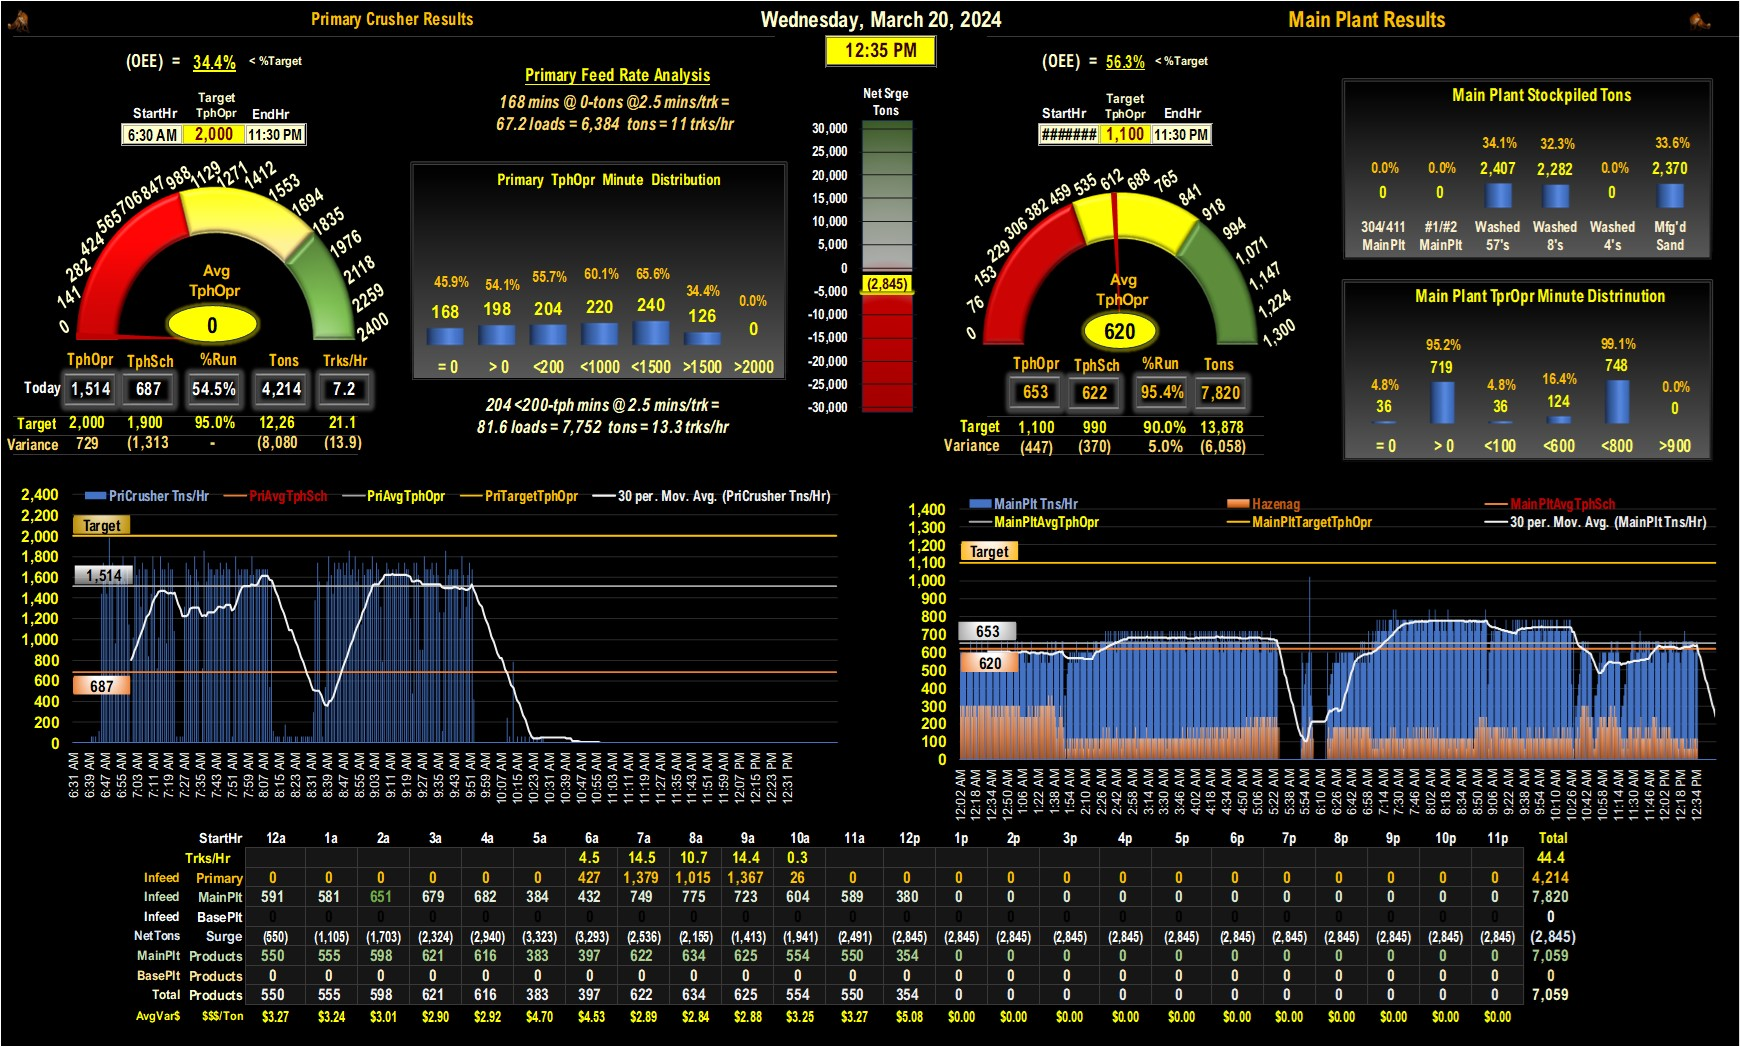
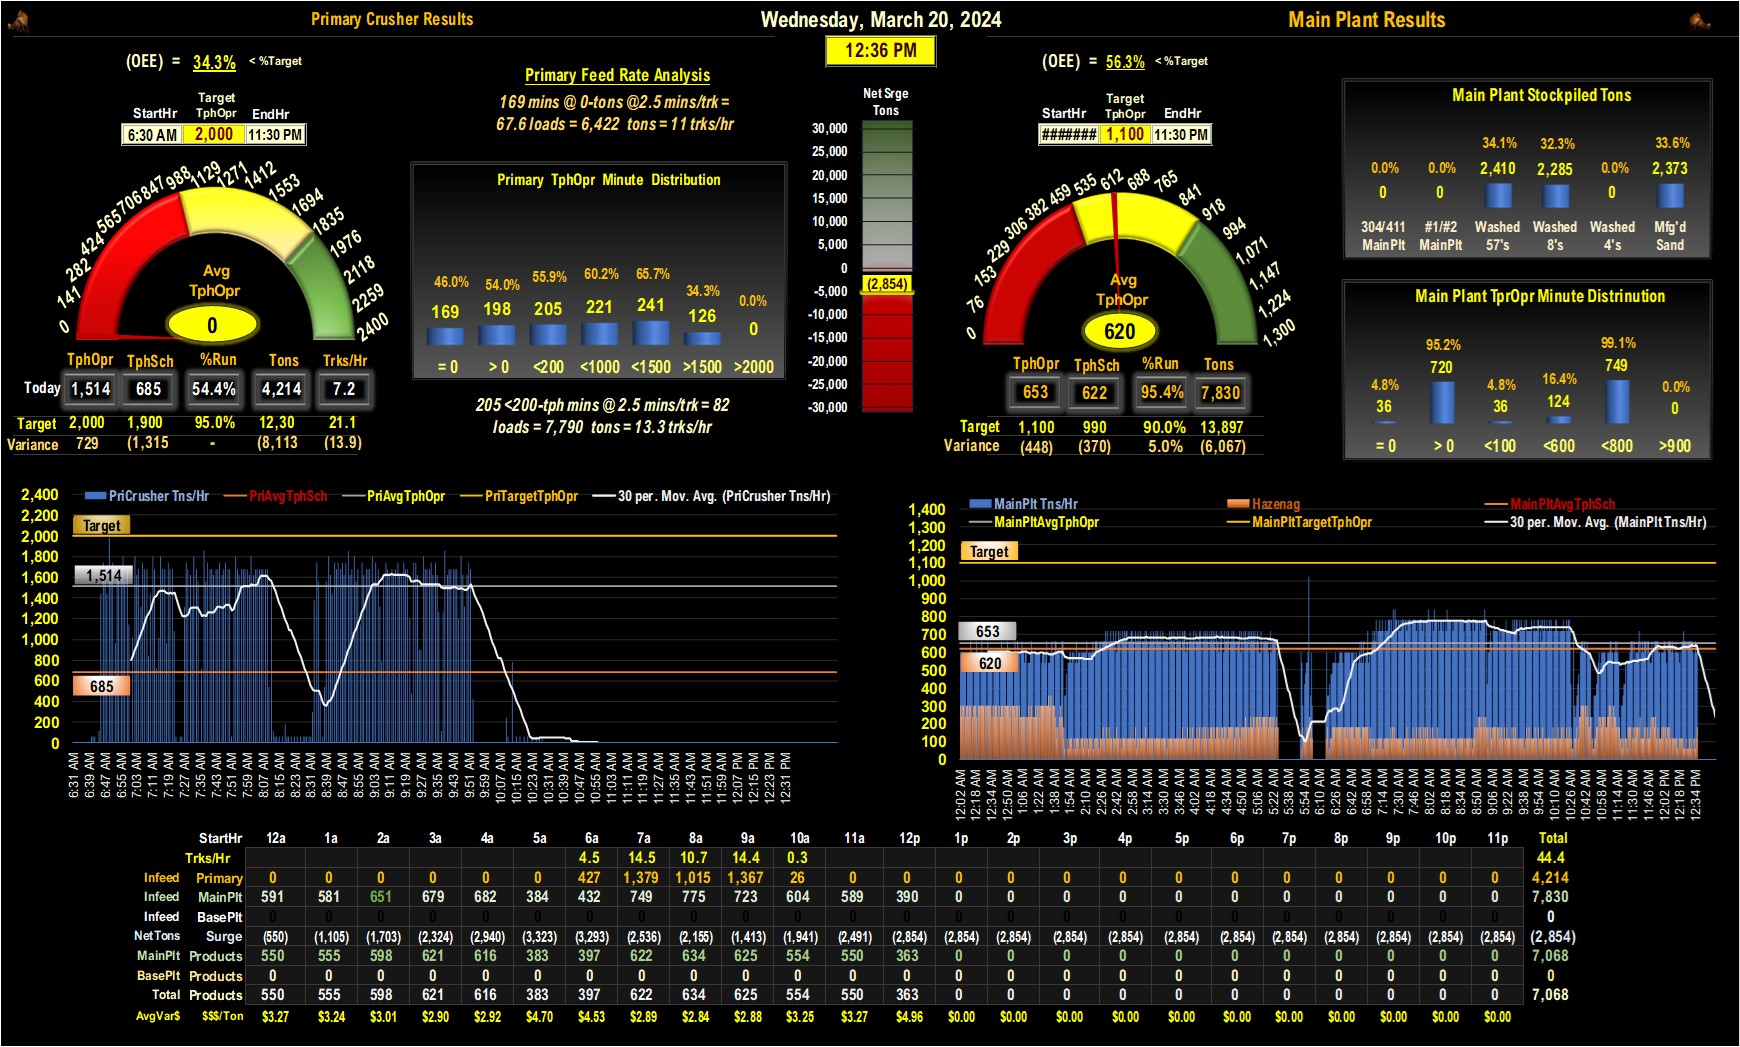
new commit

diff --git a/ColLSDash1.py b/ColLSDash1.py
@@ -99,7 +99,7 @@ def main():
     st.image(image, use_column_width=True)
 
     # Wait for 60 seconds before the next iteration
-    time.sleep(60)  
+    time.sleep(30)  
     st.rerun()
 
 
